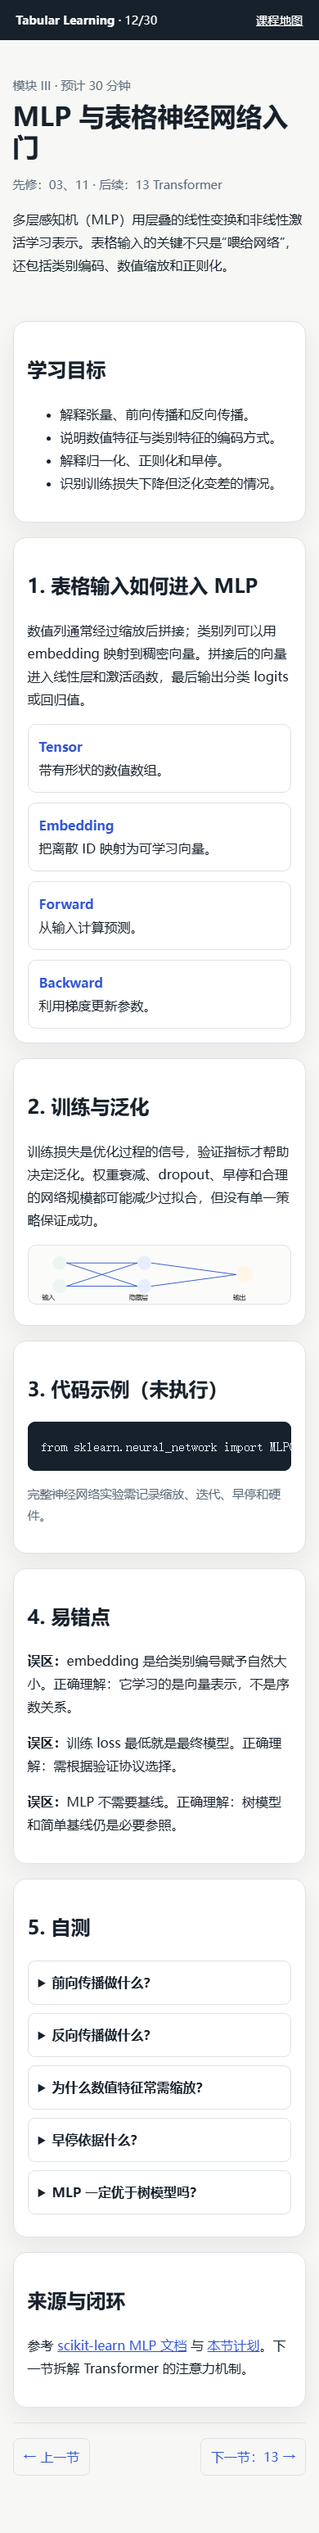
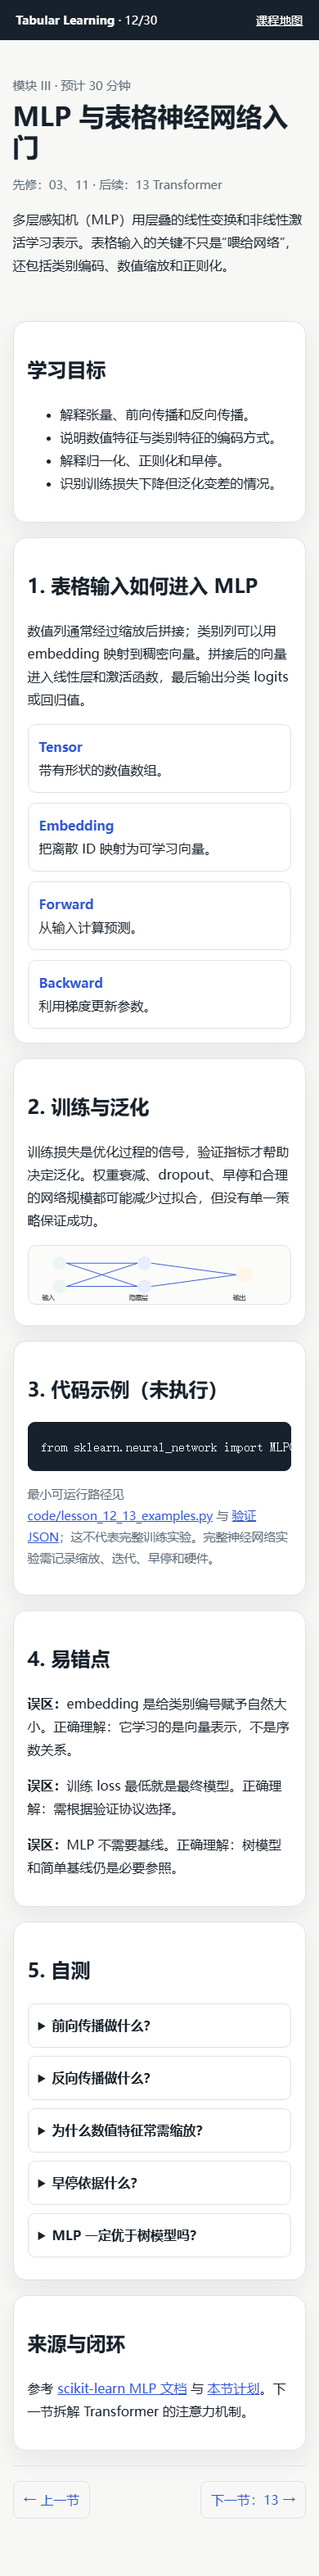
qa: execute lessons 12 and 13 examples

diff --git a/lessons/13_transformer.html b/lessons/13_transformer.html
@@ -1,1 +1,1 @@
-<!doctype html><html lang="zh-CN"><head><meta charset="utf-8"><meta name="viewport" content="width=device-width,initial-scale=1"><meta name="description" content="Transformer与注意力机制基础"><title>13｜Transformer 与注意力机制基础</title><link rel="stylesheet" href="../assets/lesson.css"></head><body><header class="top"><span><strong>Tabular Learning</strong> · 13/30</span><a href="../index.html">课程地图</a></header><main class="layout"><section class="hero"><div class="eyebrow">模块 III · 预计 35 分钟</div><h1>Transformer 与注意力机制基础</h1><p class="meta">先修：12 · 后续：14 FT-Transformer</p><p>注意力让一个 token 根据其他 token 的表示计算加权组合。表格模型借用这一机制时，token 往往代表特征，而不是自然语言词。</p></section><section class="card"><h2>学习目标</h2><ul><li>解释 token、embedding、Query/Key/Value。</li><li>理解 scaled dot-product attention 的计算。</li><li>说明多头、残差、归一化和前馈层。</li><li>理解注意力权重不等于因果解释。</li></ul></section><section class="card"><h2>1. Q、K、V 的直觉</h2><p>Query 表示“我正在寻找什么”，Key 表示“我有什么可匹配的信息”，Value 是被聚合的内容。注意力先比较 Query 与 Keys 的相似度，再用权重组合 Values。</p><p class="callout">公式：Attention(Q,K,V)=softmax(QKᵀ/√dₖ)V。缩放项减少维度变大时点积过大的问题。</p><div class="grid"><div class="term"><strong>Token</strong>输入序列中的一个处理单元；表格中可对应一个特征。</div><div class="term"><strong>Head</strong>一组独立的 Q/K/V 投影，学习一种关系视角。</div><div class="term"><strong>Residual</strong>把输入加回层输出，帮助信息和梯度传播。</div><div class="term"><strong>FFN</strong>对每个位置独立应用的前馈变换。</div></div></section><section class="card"><h2>2. 注意力热力图</h2><svg viewBox="0 0 680 230" role="img" aria-label="注意力矩阵热力图示意" style="max-width:100%;background:#fbfcfa;border:1px solid #dce2e7;border-radius:10px"><text x="250" y="25">Key：面积  城市  房龄</text><text x="25" y="75">Query 面积</text><text x="25" y="125">Query 城市</text><text x="25" y="175">Query 房龄</text><rect x="210" y="45" width="90" height="40" fill="#3155d4"/><rect x="300" y="45" width="90" height="40" fill="#9fb0ee"/><rect x="390" y="45" width="90" height="40" fill="#dce2e7"/><rect x="210" y="95" width="90" height="40" fill="#c2cdf5"/><rect x="300" y="95" width="90" height="40" fill="#3155d4"/><rect x="390" y="95" width="90" height="40" fill="#aebceF"/><rect x="210" y="145" width="90" height="40" fill="#b4c1ef"/><rect x="300" y="145" width="90" height="40" fill="#9fb0ee"/><rect x="390" y="145" width="90" height="40" fill="#3155d4"/><text x="510" y="170">颜色越深表示权重越大（示意）</text></svg></section><section class="card"><h2>3. 代码示例（未执行）</h2><pre><code>from torch.nn import MultiheadAttention; attention=MultiheadAttention(embed_dim=32,num_heads=4,batch_first=True); output,weights=attention(x,x,x)</code></pre><p class="meta">本节使用概念代码，未在当前环境执行 PyTorch 版本验证。</p></section><section class="card"><h2>4. 易错点</h2><p><strong>误区：</strong>注意力权重就是特征因果重要性。正确理解：它是某层某头的计算权重，不能独立证明因果。</p><p><strong>误区：</strong>Transformer 天然理解表格列语义。正确理解：需要合适的 token 化和训练数据。</p><p><strong>误区：</strong>多头越多越好。正确理解：头数与维度、数据量和成本共同决定效果。</p></section><section class="card"><h2>5. 自测</h2><details class="quiz"><summary>Value 在注意力中做什么？</summary><p>根据注意力权重被加权聚合成输出表示。</p></details><details class="quiz"><summary>为什么除以 √dₖ？</summary><p>控制点积尺度，避免 softmax 过度饱和。</p></details><details class="quiz"><summary>多头的作用？</summary><p>让模型从多个投影空间学习不同关系。</p></details><details class="quiz"><summary>表格 token 与词 token 一样吗？</summary><p>不一样；表格 token 通常对应特征，语义和顺序假设不同。</p></details><details class="quiz"><summary>注意力能独立作为因果解释吗？</summary><p>不能，需要结合数据生成过程和其他解释分析。</p></details></section><section class="card"><h2>来源与闭环</h2><p>参考 <a href="https://arxiv.org/abs/1706.03762">Attention Is All You Need</a>、<a href="../lesson_plans/lesson_13_plan.md">本节计划</a> 与 Transformer 原始论文。下一节将把特征 token 化用于 FT-Transformer。</p></section><nav class="nav"><a href="12_mlp.html">← 上一节</a><a href="14_ft_transformer.html">下一节：14 →</a></nav></main></body></html>
+<!doctype html><html lang="zh-CN"><head><meta charset="utf-8"><meta name="viewport" content="width=device-width,initial-scale=1"><meta name="description" content="Transformer与注意力机制基础"><title>13｜Transformer 与注意力机制基础</title><link rel="stylesheet" href="../assets/lesson.css"></head><body><header class="top"><span><strong>Tabular Learning</strong> · 13/30</span><a href="../index.html">课程地图</a></header><main class="layout"><section class="hero"><div class="eyebrow">模块 III · 预计 35 分钟</div><h1>Transformer 与注意力机制基础</h1><p class="meta">先修：12 · 后续：14 FT-Transformer</p><p>注意力让一个 token 根据其他 token 的表示计算加权组合。表格模型借用这一机制时，token 往往代表特征，而不是自然语言词。</p></section><section class="card"><h2>学习目标</h2><ul><li>解释 token、embedding、Query/Key/Value。</li><li>理解 scaled dot-product attention 的计算。</li><li>说明多头、残差、归一化和前馈层。</li><li>理解注意力权重不等于因果解释。</li></ul></section><section class="card"><h2>1. Q、K、V 的直觉</h2><p>Query 表示“我正在寻找什么”，Key 表示“我有什么可匹配的信息”，Value 是被聚合的内容。注意力先比较 Query 与 Keys 的相似度，再用权重组合 Values。</p><p class="callout">公式：Attention(Q,K,V)=softmax(QKᵀ/√dₖ)V。缩放项减少维度变大时点积过大的问题。</p><div class="grid"><div class="term"><strong>Token</strong>输入序列中的一个处理单元；表格中可对应一个特征。</div><div class="term"><strong>Head</strong>一组独立的 Q/K/V 投影，学习一种关系视角。</div><div class="term"><strong>Residual</strong>把输入加回层输出，帮助信息和梯度传播。</div><div class="term"><strong>FFN</strong>对每个位置独立应用的前馈变换。</div></div></section><section class="card"><h2>2. 注意力热力图</h2><svg viewBox="0 0 680 230" role="img" aria-label="注意力矩阵热力图示意" style="max-width:100%;background:#fbfcfa;border:1px solid #dce2e7;border-radius:10px"><text x="250" y="25">Key：面积  城市  房龄</text><text x="25" y="75">Query 面积</text><text x="25" y="125">Query 城市</text><text x="25" y="175">Query 房龄</text><rect x="210" y="45" width="90" height="40" fill="#3155d4"/><rect x="300" y="45" width="90" height="40" fill="#9fb0ee"/><rect x="390" y="45" width="90" height="40" fill="#dce2e7"/><rect x="210" y="95" width="90" height="40" fill="#c2cdf5"/><rect x="300" y="95" width="90" height="40" fill="#3155d4"/><rect x="390" y="95" width="90" height="40" fill="#aebceF"/><rect x="210" y="145" width="90" height="40" fill="#b4c1ef"/><rect x="300" y="145" width="90" height="40" fill="#9fb0ee"/><rect x="390" y="145" width="90" height="40" fill="#3155d4"/><text x="510" y="170">颜色越深表示权重越大（示意）</text></svg></section><section class="card"><h2>3. 代码示例（未执行）</h2><pre><code>from torch.nn import MultiheadAttention; attention=MultiheadAttention(embed_dim=32,num_heads=4,batch_first=True); output,weights=attention(x,x,x)</code></pre><p class="meta"> 最小可运行路径见 <a href="../code/lesson_12_13_examples.py">code/lesson_12_13_examples.py</a> 与 <a href="../reports/lesson_12_13_examples_2026-10-10.json">验证 JSON</a>；这不代表完整训练实验。本节使用概念代码，未在当前环境执行 PyTorch 版本验证。</p></section><section class="card"><h2>4. 易错点</h2><p><strong>误区：</strong>注意力权重就是特征因果重要性。正确理解：它是某层某头的计算权重，不能独立证明因果。</p><p><strong>误区：</strong>Transformer 天然理解表格列语义。正确理解：需要合适的 token 化和训练数据。</p><p><strong>误区：</strong>多头越多越好。正确理解：头数与维度、数据量和成本共同决定效果。</p></section><section class="card"><h2>5. 自测</h2><details class="quiz"><summary>Value 在注意力中做什么？</summary><p>根据注意力权重被加权聚合成输出表示。</p></details><details class="quiz"><summary>为什么除以 √dₖ？</summary><p>控制点积尺度，避免 softmax 过度饱和。</p></details><details class="quiz"><summary>多头的作用？</summary><p>让模型从多个投影空间学习不同关系。</p></details><details class="quiz"><summary>表格 token 与词 token 一样吗？</summary><p>不一样；表格 token 通常对应特征，语义和顺序假设不同。</p></details><details class="quiz"><summary>注意力能独立作为因果解释吗？</summary><p>不能，需要结合数据生成过程和其他解释分析。</p></details></section><section class="card"><h2>来源与闭环</h2><p>参考 <a href="https://arxiv.org/abs/1706.03762">Attention Is All You Need</a>、<a href="../lesson_plans/lesson_13_plan.md">本节计划</a> 与 Transformer 原始论文。下一节将把特征 token 化用于 FT-Transformer。</p></section><nav class="nav"><a href="12_mlp.html">← 上一节</a><a href="14_ft_transformer.html">下一节：14 →</a></nav></main></body></html>

diff --git a/lessons/12_mlp.html b/lessons/12_mlp.html
@@ -1,1 +1,1 @@
-<!doctype html><html lang="zh-CN"><head><meta charset="utf-8"><meta name="viewport" content="width=device-width,initial-scale=1"><meta name="description" content="MLP与表格神经网络"><title>12｜MLP 与表格神经网络入门</title><link rel="stylesheet" href="../assets/lesson.css"></head><body><header class="top"><span><strong>Tabular Learning</strong> · 12/30</span><a href="../index.html">课程地图</a></header><main class="layout"><section class="hero"><div class="eyebrow">模块 III · 预计 30 分钟</div><h1>MLP 与表格神经网络入门</h1><p class="meta">先修：03、11 · 后续：13 Transformer</p><p>多层感知机（MLP）用层叠的线性变换和非线性激活学习表示。表格输入的关键不只是“喂给网络”，还包括类别编码、数值缩放和正则化。</p></section><section class="card"><h2>学习目标</h2><ul><li>解释张量、前向传播和反向传播。</li><li>说明数值特征与类别特征的编码方式。</li><li>解释归一化、正则化和早停。</li><li>识别训练损失下降但泛化变差的情况。</li></ul></section><section class="card"><h2>1. 表格输入如何进入 MLP</h2><p>数值列通常经过缩放后拼接；类别列可以用 embedding 映射到稠密向量。拼接后的向量进入线性层和激活函数，最后输出分类 logits 或回归值。</p><div class="grid"><div class="term"><strong>Tensor</strong>带有形状的数值数组。</div><div class="term"><strong>Embedding</strong>把离散 ID 映射为可学习向量。</div><div class="term"><strong>Forward</strong>从输入计算预测。</div><div class="term"><strong>Backward</strong>利用梯度更新参数。</div></div></section><section class="card"><h2>2. 训练与泛化</h2><p>训练损失是优化过程的信号，验证指标才帮助决定泛化。权重衰减、dropout、早停和合理的网络规模都可能减少过拟合，但没有单一策略保证成功。</p><svg viewBox="0 0 680 150" role="img" aria-label="MLP前向传播示意" style="max-width:100%;background:#fbfcfa;border:1px solid #dce2e7;border-radius:10px"><circle cx="80" cy="45" r="18" fill="#edf5f3"/><circle cx="80" cy="105" r="18" fill="#edf5f3"/><circle cx="300" cy="45" r="18" fill="#e8edff"/><circle cx="300" cy="105" r="18" fill="#e8edff"/><circle cx="560" cy="75" r="22" fill="#fff6e7"/><path d="M98 45 L282 45 M98 45 L282 105 M98 105 L282 45 M98 105 L282 105 M318 45 L538 75 M318 105 L538 75" stroke="#3155d4" stroke-width="2"/><text x="35" y="140">输入</text><text x="260" y="140">隐藏层</text><text x="530" y="140">输出</text></svg></section><section class="card"><h2>3. 代码示例（未执行）</h2><pre><code>from sklearn.neural_network import MLPClassifier; model=MLPClassifier(hidden_layer_sizes=(64,32),early_stopping=True,random_state=42,max_iter=300); model.fit(X_train,y_train)</code></pre><p class="meta">完整神经网络实验需记录缩放、迭代、早停和硬件。</p></section><section class="card"><h2>4. 易错点</h2><p><strong>误区：</strong>embedding 是给类别编号赋予自然大小。正确理解：它学习的是向量表示，不是序数关系。</p><p><strong>误区：</strong>训练 loss 最低就是最终模型。正确理解：需根据验证协议选择。</p><p><strong>误区：</strong>MLP 不需要基线。正确理解：树模型和简单基线仍是必要参照。</p></section><section class="card"><h2>5. 自测</h2><details class="quiz"><summary>前向传播做什么？</summary><p>用当前参数从输入计算预测。</p></details><details class="quiz"><summary>反向传播做什么？</summary><p>计算损失对参数的梯度，为优化更新提供方向。</p></details><details class="quiz"><summary>为什么数值特征常需缩放？</summary><p>减少尺度差异对优化步长和梯度的影响。</p></details><details class="quiz"><summary>早停依据什么？</summary><p>通常依据验证表现在若干轮没有改善。</p></details><details class="quiz"><summary>MLP 一定优于树模型吗？</summary><p>不一定，结论依赖数据、调参、预算和实现。</p></details></section><section class="card"><h2>来源与闭环</h2><p>参考 <a href="https://scikit-learn.org/stable/modules/neural_networks_supervised.html">scikit-learn MLP 文档</a> 与 <a href="../lesson_plans/lesson_12_plan.md">本节计划</a>。下一节拆解 Transformer 的注意力机制。</p></section><nav class="nav"><a href="11_tabular_challenges.html">← 上一节</a><a href="13_transformer.html">下一节：13 →</a></nav></main></body></html>
+<!doctype html><html lang="zh-CN"><head><meta charset="utf-8"><meta name="viewport" content="width=device-width,initial-scale=1"><meta name="description" content="MLP与表格神经网络"><title>12｜MLP 与表格神经网络入门</title><link rel="stylesheet" href="../assets/lesson.css"></head><body><header class="top"><span><strong>Tabular Learning</strong> · 12/30</span><a href="../index.html">课程地图</a></header><main class="layout"><section class="hero"><div class="eyebrow">模块 III · 预计 30 分钟</div><h1>MLP 与表格神经网络入门</h1><p class="meta">先修：03、11 · 后续：13 Transformer</p><p>多层感知机（MLP）用层叠的线性变换和非线性激活学习表示。表格输入的关键不只是“喂给网络”，还包括类别编码、数值缩放和正则化。</p></section><section class="card"><h2>学习目标</h2><ul><li>解释张量、前向传播和反向传播。</li><li>说明数值特征与类别特征的编码方式。</li><li>解释归一化、正则化和早停。</li><li>识别训练损失下降但泛化变差的情况。</li></ul></section><section class="card"><h2>1. 表格输入如何进入 MLP</h2><p>数值列通常经过缩放后拼接；类别列可以用 embedding 映射到稠密向量。拼接后的向量进入线性层和激活函数，最后输出分类 logits 或回归值。</p><div class="grid"><div class="term"><strong>Tensor</strong>带有形状的数值数组。</div><div class="term"><strong>Embedding</strong>把离散 ID 映射为可学习向量。</div><div class="term"><strong>Forward</strong>从输入计算预测。</div><div class="term"><strong>Backward</strong>利用梯度更新参数。</div></div></section><section class="card"><h2>2. 训练与泛化</h2><p>训练损失是优化过程的信号，验证指标才帮助决定泛化。权重衰减、dropout、早停和合理的网络规模都可能减少过拟合，但没有单一策略保证成功。</p><svg viewBox="0 0 680 150" role="img" aria-label="MLP前向传播示意" style="max-width:100%;background:#fbfcfa;border:1px solid #dce2e7;border-radius:10px"><circle cx="80" cy="45" r="18" fill="#edf5f3"/><circle cx="80" cy="105" r="18" fill="#edf5f3"/><circle cx="300" cy="45" r="18" fill="#e8edff"/><circle cx="300" cy="105" r="18" fill="#e8edff"/><circle cx="560" cy="75" r="22" fill="#fff6e7"/><path d="M98 45 L282 45 M98 45 L282 105 M98 105 L282 45 M98 105 L282 105 M318 45 L538 75 M318 105 L538 75" stroke="#3155d4" stroke-width="2"/><text x="35" y="140">输入</text><text x="260" y="140">隐藏层</text><text x="530" y="140">输出</text></svg></section><section class="card"><h2>3. 代码示例（未执行）</h2><pre><code>from sklearn.neural_network import MLPClassifier; model=MLPClassifier(hidden_layer_sizes=(64,32),early_stopping=True,random_state=42,max_iter=300); model.fit(X_train,y_train)</code></pre><p class="meta"> 最小可运行路径见 <a href="../code/lesson_12_13_examples.py">code/lesson_12_13_examples.py</a> 与 <a href="../reports/lesson_12_13_examples_2026-10-10.json">验证 JSON</a>；这不代表完整训练实验。完整神经网络实验需记录缩放、迭代、早停和硬件。</p></section><section class="card"><h2>4. 易错点</h2><p><strong>误区：</strong>embedding 是给类别编号赋予自然大小。正确理解：它学习的是向量表示，不是序数关系。</p><p><strong>误区：</strong>训练 loss 最低就是最终模型。正确理解：需根据验证协议选择。</p><p><strong>误区：</strong>MLP 不需要基线。正确理解：树模型和简单基线仍是必要参照。</p></section><section class="card"><h2>5. 自测</h2><details class="quiz"><summary>前向传播做什么？</summary><p>用当前参数从输入计算预测。</p></details><details class="quiz"><summary>反向传播做什么？</summary><p>计算损失对参数的梯度，为优化更新提供方向。</p></details><details class="quiz"><summary>为什么数值特征常需缩放？</summary><p>减少尺度差异对优化步长和梯度的影响。</p></details><details class="quiz"><summary>早停依据什么？</summary><p>通常依据验证表现在若干轮没有改善。</p></details><details class="quiz"><summary>MLP 一定优于树模型吗？</summary><p>不一定，结论依赖数据、调参、预算和实现。</p></details></section><section class="card"><h2>来源与闭环</h2><p>参考 <a href="https://scikit-learn.org/stable/modules/neural_networks_supervised.html">scikit-learn MLP 文档</a> 与 <a href="../lesson_plans/lesson_12_plan.md">本节计划</a>。下一节拆解 Transformer 的注意力机制。</p></section><nav class="nav"><a href="11_tabular_challenges.html">← 上一节</a><a href="13_transformer.html">下一节：13 →</a></nav></main></body></html>

diff --git a/code/lesson_12_13_examples.py b/code/lesson_12_13_examples.py
@@ -1,0 +1,74 @@
+"""Run the minimal executable examples referenced by lessons 12 and 13."""
+
+from __future__ import annotations
+
+import json
+from pathlib import Path
+
+from sklearn.datasets import load_breast_cancer
+from sklearn.metrics import accuracy_score
+from sklearn.model_selection import train_test_split
+from sklearn.neural_network import MLPClassifier
+from sklearn.pipeline import make_pipeline
+from sklearn.preprocessing import StandardScaler
+
+ROOT = Path(__file__).resolve().parents[1]
+REPORT = ROOT / "reports" / "lesson_12_13_examples_2026-10-10.json"
+
+
+def run_mlp() -> dict[str, object]:
+    data = load_breast_cancer()
+    x_train, x_test, y_train, y_test = train_test_split(
+        data.data, data.target, test_size=0.25, stratify=data.target, random_state=42
+    )
+    model = make_pipeline(
+        StandardScaler(),
+        MLPClassifier(
+            hidden_layer_sizes=(32, 16),
+            early_stopping=True,
+            validation_fraction=0.2,
+            max_iter=500,
+            random_state=42,
+        ),
+    )
+    model.fit(x_train, y_train)
+    accuracy = float(accuracy_score(y_test, model.predict(x_test)))
+    return {
+        "library": "scikit-learn",
+        "version": __import__("sklearn").__version__,
+        "dataset": "Breast Cancer Wisconsin Diagnostic",
+        "protocol": "stratified 75/25 split, random_state=42, StandardScaler in pipeline",
+        "accuracy": accuracy,
+        "early_stopping": True,
+    }
+
+
+def run_attention() -> dict[str, object]:
+    import torch
+
+    torch.manual_seed(42)
+    layer = torch.nn.MultiheadAttention(embed_dim=8, num_heads=2, batch_first=True)
+    inputs = torch.randn(4, 5, 8)
+    with torch.no_grad():
+        outputs, weights = layer(inputs, inputs, inputs)
+    if not bool(torch.isfinite(outputs).all()) or not bool(torch.isfinite(weights).all()):
+        raise RuntimeError("attention output contains non-finite values")
+    return {
+        "library": "torch",
+        "version": torch.__version__,
+        "input_shape": list(inputs.shape),
+        "output_shape": list(outputs.shape),
+        "attention_shape": list(weights.shape),
+        "finite_output": True,
+        "seed": 42,
+    }
+
+
+def main() -> None:
+    result = {"lesson_12_mlp": run_mlp(), "lesson_13_attention": run_attention()}
+    REPORT.write_text(json.dumps(result, ensure_ascii=False, indent=2), encoding="utf-8")
+    print(f"lesson 12/13 examples: PASS (output={REPORT.relative_to(ROOT)})")
+
+
+if __name__ == "__main__":
+    main()

diff --git a/code/link_lesson_12_13_evidence.py b/code/link_lesson_12_13_evidence.py
@@ -1,0 +1,31 @@
+"""Link the executable lesson 12/13 evidence without rewriting page content."""
+
+from pathlib import Path
+
+ROOT = Path(__file__).resolve().parents[1]
+EVIDENCE = (
+    ' 最小可运行路径见 <a href="../code/lesson_12_13_examples.py">'
+    'code/lesson_12_13_examples.py</a> 与 <a href="../reports/lesson_12_13_examples_2026-10-10.json">'
+    '验证 JSON</a>；这不代表完整训练实验。'
+)
+
+
+def add_link(relative: str) -> None:
+    path = ROOT / relative
+    source = path.read_text(encoding="utf-8")
+    start = source.index("<h2>3.")
+    marker = '<p class="meta">'
+    position = source.index(marker, start) + len(marker)
+    if "lesson_12_13_examples.py" in source:
+        return
+    path.write_text(source[:position] + EVIDENCE + source[position:], encoding="utf-8", newline="")
+
+
+def main() -> None:
+    add_link("lessons/12_mlp.html")
+    add_link("lessons/13_transformer.html")
+    print("linked lesson 12/13 executable evidence")
+
+
+if __name__ == "__main__":
+    main()

diff --git a/reports/lesson_11_15_claim_review_2026-10-10.md b/reports/lesson_11_15_claim_review_2026-10-10.md
@@ -9,8 +9,8 @@
 | 课件 | 主张与证据 | 结论 | 未闭环项 |
 |---|---|---|---|
 | 11 表格学习的特殊挑战 | 异质特征、小样本、缺失、类别特征、分布偏移和模型归纳偏置的教学性概括；页面引用 FT-Transformer 研究，原论文讨论表格深度模型比较协议、强基线和“无普遍最优解”的边界。 | 部分通过 | 页面中的挑战分类是教学综合，不能全部归因于 R03；尚未为每个概念补充独立官方/教材来源。 |
-| 12 MLP | MLP 由线性层与非线性构成，使用反向传播训练；页面关于数值缩放、早停、正则化和验证集边界与 scikit-learn MLP 文档及常见实践一致。 | 通过（概念层） | 页面代码未执行；类别 embedding 不是 scikit-learn MLP 文档的直接结论，需在后续深度学习实现批次补充框架级来源。 |
-| 13 Transformer | Q/K/V 直觉、`Attention(Q,K,V)=softmax(QKᵀ/√d_k)V`、多头、残差、归一化和前馈层与 *Attention Is All You Need* 的结构和公式一致；页面明确注意力权重不等于因果解释。 | 通过（机制层） | 页面 PyTorch 代码未执行；热力图为示意，不是实验输出；因果解释边界仍需在解释性专题中补充更直接来源。 |
+| 12 MLP | MLP 由线性层与非线性构成，使用反向传播训练；页面关于数值缩放、早停、正则化和验证集边界与 scikit-learn MLP 文档及常见实践一致。 | 通过（概念层；最小路径已执行） | 页面内联示例本身未执行；独立最小 MLP 路径见 `code/lesson_12_13_examples.py`，类别 embedding 不是 scikit-learn MLP 文档的直接结论，需在后续深度学习实现批次补充框架级来源。 |
+| 13 Transformer | Q/K/V 直觉、`Attention(Q,K,V)=softmax(QKᵀ/√d_k)V`、多头、残差、归一化和前馈层与 *Attention Is All You Need* 的结构和公式一致；页面明确注意力权重不等于因果解释。 | 通过（机制层；最小路径已执行） | 页面内联 PyTorch 代码未执行；独立最小多头注意力路径已记录于 `reports/lesson_12_13_examples_2026-10-10.json`；热力图为示意，不是实验输出；因果解释边界仍需在解释性专题中补充更直接来源。 |
 | 14 FT-Transformer | 数值/类别特征形成 feature tokens，Transformer 建模特征关系；页面对原论文结论限定为 benchmark 条件，并保留 MLP 基线、成本和无普遍排名的边界。 | 部分通过 | 原论文主张已核对；官方实现/API 未在本仓库运行，页面代码明确为伪代码；实现版本与资源结论不能升级为本机实测。 |
 | 15 公平比较 | 数据拆分、预处理、调参预算、随机种子、指标、资源和不确定性共同构成比较协议；数据泄漏和不一致协议会造成过度乐观或不可比结果。 | 通过（协议层） | 页面示例是记录格式而非运行程序；更广数据集、组件消融和 TabPFN 同协议对照仍缺。 |
 

diff --git a/qa/final_audit.md b/qa/final_audit.md
@@ -7,14 +7,14 @@
 - 30 个独立 lesson HTML 已存在。
 - 30 份 lesson plan 和 30 份逐节 checklist 已存在。
 - index.html 已链接 30/30 个课件。
-- HTML 结构/本地链接审计通过：31 个页面、211 个本地链接；30 节课件均含外部可核验来源，且已纳入审计硬门禁。最新完整自动重跑见 `reports/final_validation_run_2026-10-10.md`。
+- HTML 结构/本地链接审计通过：31 个页面、215 个本地链接；30 节课件均含外部可核验来源，且已纳入审计硬门禁。最新完整自动重跑见 `reports/final_validation_run_2026-10-10.md`。
 - 30 份 lesson plan 与 30 个 HTML 页面已通过跨章节对应审计。
 - 30 节页面与计划已通过最低内容深度结构审计；教学准确性仍需逐句人工核验。
 - 基础 sklearn、树模型、XGBoost、CatBoost、MLP 和校准 smoke test 有运行记录。
 - 研究计划、事实矩阵、参考文献、版本记录和开放问题已建立。
 - R05 PFN 原始论文链接已核正为 arXiv:2112.10510，并保存复核记录 `reports/core_fact_verification_2026-10-10.md`；外链审计重跑通过。
 - TabPFN 官方 Models/README 的版本、行列、类别、CPU 提示和许可边界已追加日期化证据；这些页面事实仍不替代本机 checkpoint 实测。
-- 已生成逐课来源清单：30 个课件、35 个外部链接引用、152 个本地来源链接；该清单明确不替代语义事实核验。
+- 已生成逐课来源清单：30 个课件、35 个外部链接引用、156 个本地来源链接；该清单明确不替代语义事实核验。
 - 已保存 `reports/paper_claim_verification_2026-10-10.md` 及 XGBoost、CatBoost、FT-Transformer 补充核验报告：主要论文机制已到章节/官方文档级，当前库行为、官方实现运行和逐课事实终审仍单独保留为缺口。
 - 已完成全课程桌面/移动截图捕获与缩略图复核，并保留入口页与第 05 节人工视觉记录；全课程截图证据仍不扩展为逐像素、屏幕阅读器或跨内核视觉认证。
 - 已让 Edge smoke test 保存 30 个课件的 390px 布局测量记录；该记录只证明自动化页面宽度断言，不替代人工逐页视觉和屏幕阅读器审查。

diff --git a/research/fact_check_matrix.md b/research/fact_check_matrix.md
@@ -19,7 +19,7 @@
 | F13 | TabPFN 模型权重许可证与代码许可证 | 高 | R07, R13 | 对应模型许可 | 已确认代码 Apache 2.0 与模型权重许可分开；3/3.5 等权重的非商业限制和教学/商业使用边界需按版本单独说明 | 2026-10-10 页面 | 20, 21, README |
 | F12 | 关键性能数字、复杂度和运行时间 | 高 | 对应原始论文/实验日志 | 复现实验 | 本地 benchmark 与预声明 XGBoost/CatBoost 参数实验已有逐次 JSON、均值/标准差、10 种子描述性 95% t 区间和环境记录；TabPFN 性能、论文数字和通用复杂度仍未核验，不得混写 | `data/benchmark/*.json`、`reports/*benchmark*.md` | 全部 |
 
-| F14 | 第 11–15 节表格挑战、MLP、Transformer、FT-Transformer 与公平比较主张 | 高 | R03、Transformer 原始论文、scikit-learn 官方文档 | 逐节主张复核 | `reports/lesson_11_15_claim_review_2026-10-10.md` 已记录机制层和协议层结论；第 12/13 代码未执行，第 14 官方实现/API 与资源仍未实测，概念性挑战尚未逐项补齐独立来源 | 11–15 |
+| F14 | 第 11–15 节表格挑战、MLP、Transformer、FT-Transformer 与公平比较主张 | 高 | R03、Transformer 原始论文、scikit-learn 官方文档 | 逐节主张复核 | `reports/lesson_11_15_claim_review_2026-10-10.md` 已记录机制层和协议层结论；第 12/13 页面内联片段仍未执行，但独立最小路径已运行，第 14 官方实现/API 与资源仍未实测，概念性挑战尚未逐项补齐独立来源 | 11–15 |
 
 ## 判定规则
 

diff --git a/reports/final_validation_run_2026-10-10.md b/reports/final_validation_run_2026-10-10.md
@@ -6,16 +6,18 @@
 
 ```text
 audit_lessons.py                         PASS (30 lessons, index links 30/30)
-check_html_structure.py                   PASS (31 pages, 211 local links)
+check_html_structure.py                   PASS (31 pages, 215 local links)
 cross_lesson_audit.py                    PASS (30 plans linked to 30 pages)
 content_depth_audit.py                   PASS (30 pages and plans)
 accessibility_audit.py                   PASS (31 pages)
-source_inventory.py                      PASS (30 lessons, 35 external, 152 local source links)
+source_inventory.py                      PASS (30 lessons, 35 external, 156 local source links)
 citation_consistency_audit.py            PASS (30 lessons, 3 manual-review warnings retained)
 browser_interaction_audit.py             PASS (30 lessons)
 ax_tree_course_audit.py                  PASS (30 lessons)
 browser_smoke_test.py                    PASS (30 lessons, keyboard/clipboard/reduced motion/390px)
 lesson_03_06_examples.py                 PASS (deterministic teaching examples)
+lesson_12_13_examples.py                 PASS (MLP and multi-head attention minimal paths)
+course_visual_capture.py                  PASS (60 screenshots, 0 console errors, no mobile overflow)
 ```
 
 新增的 01/02/03/04/06/07/08/10/22 控件均有命名或标签，并被全课程交互与 AX tree 审计纳入。

diff --git a/reports/lesson_source_inventory_2026-10-10.md b/reports/lesson_source_inventory_2026-10-10.md
@@ -15,8 +15,8 @@
 | `09_xgboost.html` | 1 | 5 | `https://xgboost.readthedocs.io/` |
 | `10_catboost.html` | 2 | 5 | `https://catboost.ai/docs/en/concepts/algorithm-main-stages_fighting-biases`<br>`https://catboost.ai/docs/en/concepts/algorithm-main-stages_cat-to-numberic` |
 | `11_tabular_challenges.html` | 1 | 5 | `https://openreview.net/forum?id=i_Q1yrOegLY` |
-| `12_mlp.html` | 1 | 4 | `https://scikit-learn.org/stable/modules/neural_networks_supervised.html` |
-| `13_transformer.html` | 1 | 4 | `https://arxiv.org/abs/1706.03762` |
+| `12_mlp.html` | 1 | 6 | `https://scikit-learn.org/stable/modules/neural_networks_supervised.html` |
+| `13_transformer.html` | 1 | 6 | `https://arxiv.org/abs/1706.03762` |
 | `14_ft_transformer.html` | 1 | 5 | `https://openreview.net/forum?id=i_Q1yrOegLY` |
 | `15_fair_comparison.html` | 1 | 5 | `https://scikit-learn.org/stable/modules/cross_validation.html` |
 | `16_tabpfn_motivation.html` | 1 | 6 | `https://arxiv.org/abs/2207.01848` |
@@ -35,7 +35,7 @@
 | `29_capstone.html` | 1 | 6 | `https://github.com/PriorLabs/TabPFN` |
 | `30_synthesis.html` | 1 | 7 | `https://scikit-learn.org/stable/modules/model_evaluation.html` |
 
-合计：30 个课件，35 个外部链接，152 个本地链接。
+合计：30 个课件，35 个外部链接，156 个本地链接。
 
 ## 判定
 

diff --git a/reports/citation_consistency_2026-10-10.md b/reports/citation_consistency_2026-10-10.md
@@ -15,8 +15,8 @@
 | 09 | 2 | 1 | 1 | 5 | 有 |
 | 10 | 2 | 1 | 2 | 5 | 有 |
 | 11 | 0 | 0 | 1 | 5 | 有 |
-| 12 | 0 | 0 | 1 | 4 | 有 |
-| 13 | 0 | 0 | 1 | 4 | 有 |
+| 12 | 0 | 0 | 1 | 6 | 有 |
+| 13 | 0 | 0 | 1 | 6 | 有 |
 | 14 | 0 | 1 | 1 | 5 | 有 |
 | 15 | 0 | 0 | 1 | 5 | 有 |
 | 16 | 3 | 2 | 1 | 6 | 未发现 |
